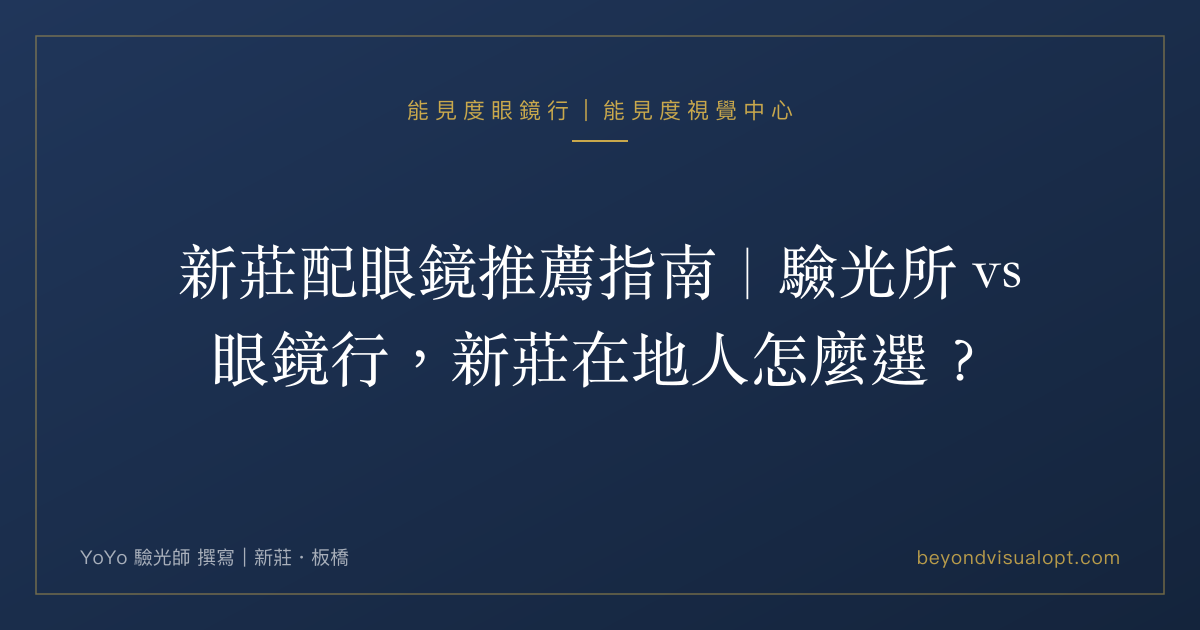
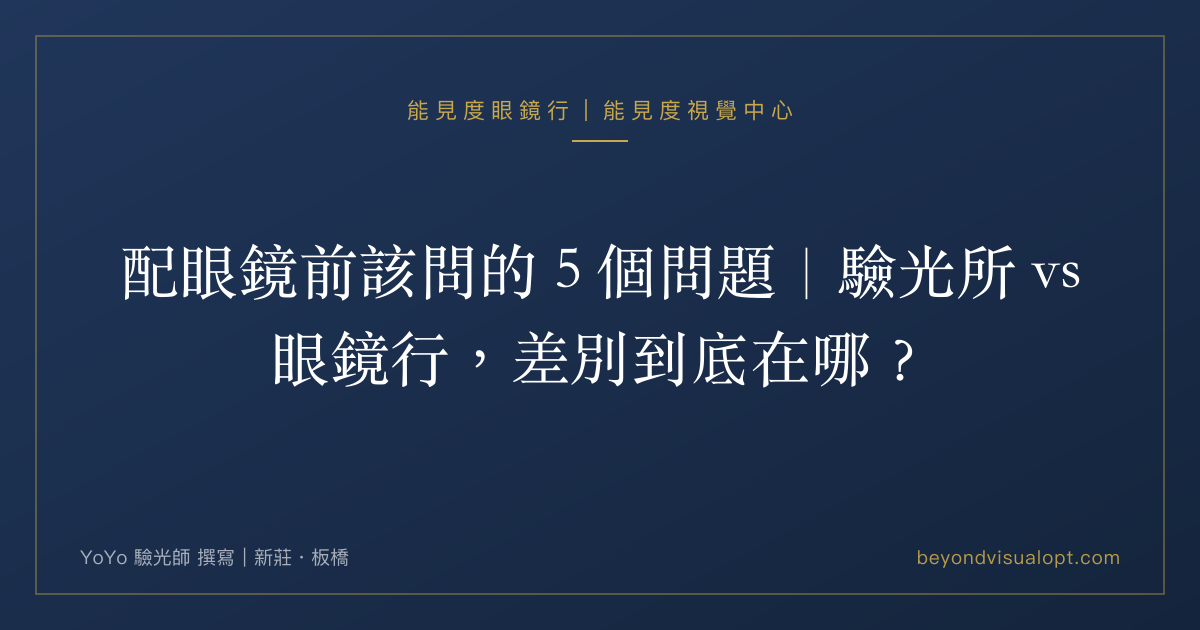
關鍵字集中：「新莊眼鏡行推薦」主力頁定為 /xinzhuang/
診斷（GSC 近 4 週）：同一關鍵字有 4 頁互搶，權重拆四份——
首頁 11.6／新莊店頁 26.7／選配指南 46.5／新莊配鏡文 50.0。
首頁本已排到第二頁最上面，但被自家頁面稀釋，上不去第一頁。

主力頁 /xinzhuang/（強化）
- 新增「在新莊，我們服務哪些人」在地段落：交通、服務範圍
  （新莊/頭前庄/副都心/思源路、泰山五股三重林口）、輔大商圈、
  60–90 分鐘預約時段
- FAQ 增 2 題承接比較型搜尋意圖：「在新莊要怎麼挑眼鏡行或驗光所」
  「新莊的眼鏡行和驗光所差在哪裡」（FAQPage schema 同步 6 題）
- description 改寫含在地詞；移除「首選」誇大用語（公平法 §21 風險）
- hero 副標補「新莊的眼鏡行選擇很多」自然承接
- 稱謂統一驗光人員；「兒童近視定期追蹤」→「兒童視力定期追蹤」

弱化三頁 + 內鏈導流
- 首頁：keywords 移除新莊/板橋「眼鏡行推薦」精準詞，回品牌總覽定位
- 選配指南：FAQ「新莊哪裡配眼鏡比較好」→「新北配眼鏡，怎麼挑一家
  可以信任的店」（跨區泛用），在地細節交店頁承接
- 新莊配鏡文：標題去「新莊配眼鏡推薦」精準詞，改「配眼鏡前該問的
  5 個問題」；刪與店頁重複的完整門市資訊區塊，改內鏈導向店頁
- 內鏈錨文字關鍵字化（首頁/about/選配指南/選驗光師指南 → 新莊店），
  順手修 /xinzhuang 無斜線的 308 轉址

補產 OG 圖（blog 標題變動）；build 164 頁通過，6 頁實測 200。

驗收：4 週後 GSC 看 /xinzhuang/ 對此字是否進前 10、其餘 3 頁曝光下降。

Changed region(s): [[0.0925, 0.3921, 0.8942, 0.4825], [0.1542, 0.5127, 0.8017, 0.6333], [0.8017, 0.5429, 0.8325, 0.573]]

diff --git a/.astro/astro/content.d.ts b/.astro/astro/content.d.ts
@@ -197,6 +197,20 @@ declare module 'astro:content' {
   collection: "blog";
   data: InferEntrySchema<"blog">
 } & { render(): Render[".md"] };
+"blurry-vision-see-doctor.md": {
+	id: "blurry-vision-see-doctor.md";
+  slug: "blurry-vision-see-doctor";
+  body: string;
+  collection: "blog";
+  data: InferEntrySchema<"blog">
+} & { render(): Render[".md"] };
+"child-vision-check-where.md": {
+	id: "child-vision-check-where.md";
+  slug: "child-vision-check-where";
+  body: string;
+  collection: "blog";
+  data: InferEntrySchema<"blog">
+} & { render(): Render[".md"] };
 "children-frames-guide.md": {
 	id: "children-frames-guide.md";
   slug: "children-frames-guide";
@@ -260,6 +274,34 @@ declare module 'astro:content' {
   collection: "blog";
   data: InferEntrySchema<"blog">
 } & { render(): Render[".md"] };
+"eye-exam-before-glasses.md": {
+	id: "eye-exam-before-glasses.md";
+  slug: "eye-exam-before-glasses";
+  body: string;
+  collection: "blog";
+  data: InferEntrySchema<"blog">
+} & { render(): Render[".md"] };
+"eye-exam-duration-difference.md": {
+	id: "eye-exam-duration-difference.md";
+  slug: "eye-exam-duration-difference";
+  body: string;
+  collection: "blog";
+  data: InferEntrySchema<"blog">
+} & { render(): Render[".md"] };
+"eye-exam-preparation-tips.md": {
+	id: "eye-exam-preparation-tips.md";
+  slug: "eye-exam-preparation-tips";
+  body: string;
+  collection: "blog";
+  data: InferEntrySchema<"blog">
+} & { render(): Render[".md"] };
+"eye-strain-see-doctor.md": {
+	id: "eye-strain-see-doctor.md";
+  slug: "eye-strain-see-doctor";
+  body: string;
+  collection: "blog";
+  data: InferEntrySchema<"blog">
+} & { render(): Render[".md"] };
 "frame-adjustment-handcraft.md": {
 	id: "frame-adjustment-handcraft.md";
   slug: "frame-adjustment-handcraft";
@@ -302,6 +344,13 @@ declare module 'astro:content' {
   collection: "blog";
   data: InferEntrySchema<"blog">
 } & { render(): Render[".md"] };
+"good-lens-needs-good-fitting.md": {
+	id: "good-lens-needs-good-fitting.md";
+  slug: "good-lens-needs-good-fitting";
+  body: string;
+  collection: "blog";
+  data: InferEntrySchema<"blog">
+} & { render(): Render[".md"] };
 "high-myopia-glasses-guide.md": {
 	id: "high-myopia-glasses-guide.md";
   slug: "high-myopia-glasses-guide";
@@ -337,6 +386,13 @@ declare module 'astro:content' {
   collection: "blog";
   data: InferEntrySchema<"blog">
 } & { render(): Render[".md"] };
+"lens-only-service.md": {
+	id: "lens-only-service.md";
+  slug: "lens-only-service";
+  body: string;
+  collection: "blog";
+  data: InferEntrySchema<"blog">
+} & { render(): Render[".md"] };
 "lens-refractive-index.md": {
 	id: "lens-refractive-index.md";
   slug: "lens-refractive-index";
@@ -368,6 +424,20 @@ declare module 'astro:content' {
 "myopia-vs-astigmatism.md": {
 	id: "myopia-vs-astigmatism.md";
   slug: "myopia-vs-astigmatism";
+  body: string;
+  collection: "blog";
+  data: InferEntrySchema<"blog">
+} & { render(): Render[".md"] };
+"old-frame-relens.md": {
+	id: "old-frame-relens.md";
+  slug: "old-frame-relens";
+  body: string;
+  collection: "blog";
+  data: InferEntrySchema<"blog">
+} & { render(): Render[".md"] };
+"online-frame-lens-fitting.md": {
+	id: "online-frame-lens-fitting.md";
+  slug: "online-frame-lens-fitting";
   body: string;
   collection: "blog";
   data: InferEntrySchema<"blog">
@@ -456,9 +526,23 @@ declare module 'astro:content' {
   collection: "blog";
   data: InferEntrySchema<"blog">
 } & { render(): Render[".md"] };
+"same-prescription-different-feel.md": {
+	id: "same-prescription-different-feel.md";
+  slug: "same-prescription-different-feel";
+  body: string;
+  collection: "blog";
+  data: InferEntrySchema<"blog">
+} & { render(): Render[".md"] };
 "vertex-distance.md": {
 	id: "vertex-distance.md";
   slug: "vertex-distance";
+  body: string;
+  collection: "blog";
+  data: InferEntrySchema<"blog">
+} & { render(): Render[".md"] };
+"vintage-frame-lens.md": {
+	id: "vintage-frame-lens.md";
+  slug: "vintage-frame-lens";
   body: string;
   collection: "blog";
   data: InferEntrySchema<"blog">

diff --git a/src/content/blog/xinzhuang-glasses-guide.md b/src/content/blog/xinzhuang-glasses-guide.md
@@ -1,8 +1,8 @@
 ---
-title: 新莊配眼鏡推薦指南｜驗光所 vs 眼鏡行，新莊在地人怎麼選？
+title: 配眼鏡前該問的 5 個問題｜驗光所 vs 眼鏡行，差別到底在哪？
 date: 2026-06-25
 tag: "在地推薦"
-excerpt: 新莊配眼鏡要去哪裡？驗光所和眼鏡行差在哪？新莊中正路、思源路一帶選擇多，這篇幫你搞清楚怎麼選。
+excerpt: 驗光所和眼鏡行在法規上完全不同。配眼鏡前先搞懂這 5 個問題，比看評價星數有用。
 image: ""
 youtube: ""
 instagram: ""
@@ -53,38 +53,17 @@ instagram: ""
 
 ---
 
-## 能見度視覺中心 × 比泱驗光所（新莊）
+## 我們在新莊的門市
 
-**地址：** 新北市新莊區中正路419-1號（捷運新莊站步行約 8 分鐘）
-**電話：** 02-2206-6700
-**執照：** 新北府莊衛驗光字第 5Y31060655 號
-**主理驗光師：** 鄭家侑（YoYo）／驗師字第 003309 號
+能見度視覺中心 × 比泱驗光所就在新莊中正路419-1號，捷運新莊站步行約 8 分鐘，由持照驗光人員一對一接診，主理驗光師是鄭家侑（YoYo）。
 
-**營業時間：**
-- 週一、二、三、五、六：11:00–21:00
-- 週日：12:00–21:00
-- 週四公休（緊急需求可電話預約）
-
-**Google 評分：** 5.0（222 則評論）
-
-### 我們提供什麼？
-
-- 45–60 分鐘完整臨床驗光（含雙眼視覺評估）
-- 蔡司 Zeiss 簽約認證經銷商（Individual² 個人化訂製、多焦點系列）
-- HOYA 鏡片經銷
-- Ray-Ban、OLIVER PEOPLES、EMPORIO ARMANI、BVLGARI、agnès b.、MINAMOTO 源等鏡框品牌
-- Lindberg、ic! berlin、Cartier、Chrome Hearts 等高端鏡架精密維修調整與自帶鏡框配鏡（維修專長）
-- 兒童近視定期追蹤服務
-- 配鏡後免費回診調整
+**交通、營業時間、完整服務項目與常見問題 → [新莊眼鏡行・驗光所門市介紹](/xinzhuang/)**
 
 ---
 
 ## 常見問題
 
-**Q：新莊附近哪裡有驗光所？**
-A：能見度視覺中心（比泱驗光所）位於新北市新莊區中正路419-1號，持照驗光師鄭家侑（YoYo）主理，捷運新莊站步行 8 分鐘，Google 評分 5.0（222 則評論）。
-
-**Q：新莊配眼鏡大概多少錢？**
+**Q：配眼鏡大概多少錢？**
 A：鏡片費用依品牌和功能差異大。基本單光鏡片約 NT$2,000–6,000；蔡司多焦點約 NT$12,000–30,000 以上（依訂製程度）。配鏡前建議先了解自己的需求再評估預算。
 
 **Q：輔大學生可以去嗎？**
